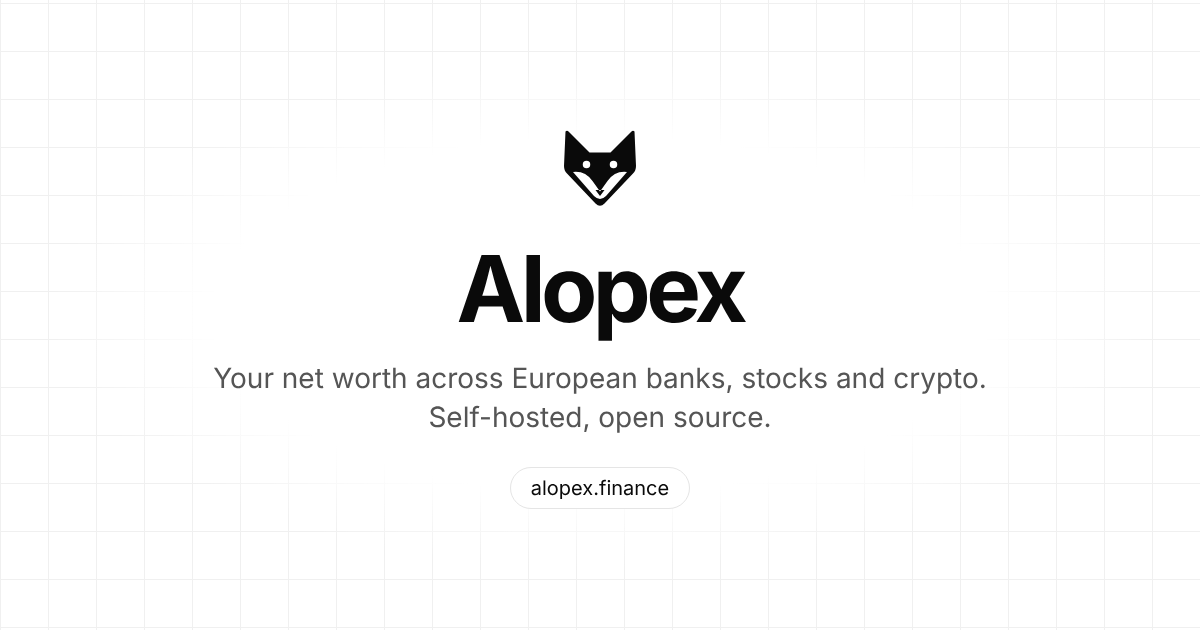
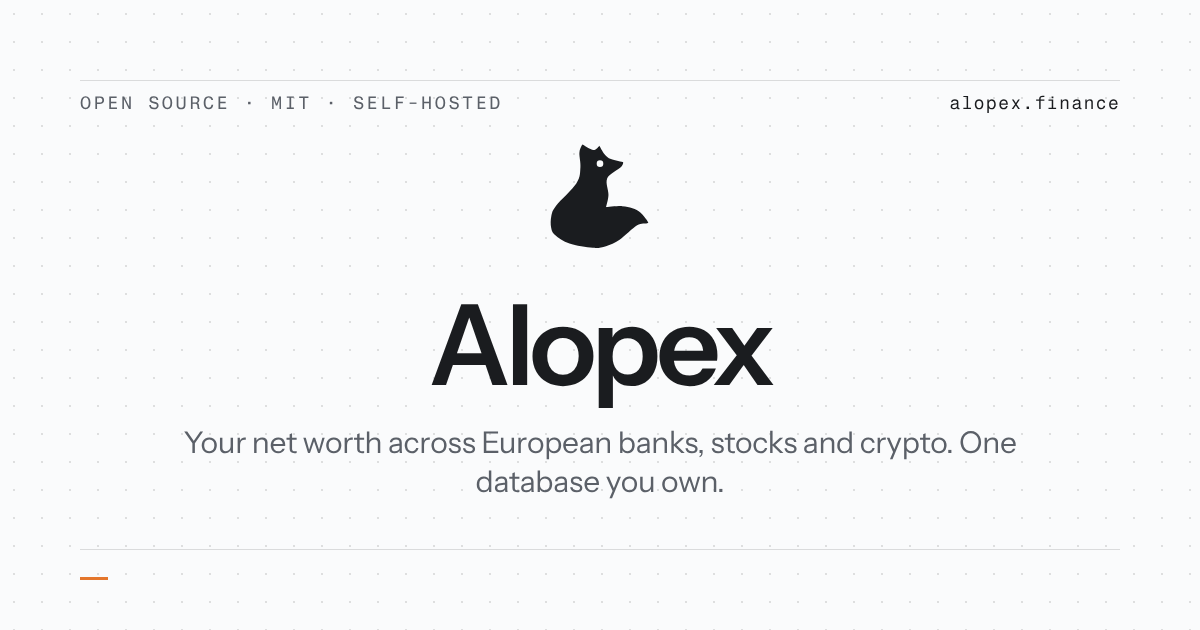
feat(site): sitting fox mark
Landing nav, footer and closing band use the sitting-fox silhouette; favicon,
apple-touch icon and OG image regenerated to match.

Claude-Session: https://claude.ai/code/session_015ob4vseKrSYbt3XPdrmNM3

diff --git a/site/index.html b/site/index.html
@@ -194,7 +194,7 @@ code{font:.9em ui-monospace,SFMono-Regular,Menlo,monospace;background:var(--soft
 </head>
 <body>
 <header><div class="wrap">
-  <a class="brand" href="/" aria-label="Alopex home"><svg viewBox="0 0 64 64" aria-hidden="true"><path fill="currentColor" d="M9 7Q10 6 11 7L25 21H39L53 7Q54 6 55 7L56 30Q56 33 54 35L35 55Q32 58 29 55L10 35Q8 33 8 30Z"/><path fill="var(--bg)" d="M14 34Q22 33 27 40L32 47L37 40Q42 33 50 34L36 50Q32 54 28 50Z"/><circle cx="23" cy="29" r="2.5" fill="var(--bg)"/><circle cx="41" cy="29" r="2.5" fill="var(--bg)"/><path fill="currentColor" d="M29 46H35L32 50Z"/></svg> Alopex</a>
+  <a class="brand" href="/" aria-label="Alopex home"><svg viewBox="0 0 64 64" aria-hidden="true"><path fill="currentColor" fill-rule="evenodd" d="M23.0 8.3 C22.7 9.0 22.1 9.9 22.0 11.6 C21.9 13.3 22.7 16.2 22.5 18.6 C22.3 21.1 22.6 23.2 20.6 26.3 C18.6 29.4 12.7 34.6 10.7 37.2 C8.7 39.9 8.8 40.4 8.4 42.2 C8.0 44.0 8.0 46.3 8.3 47.8 C8.6 49.3 8.7 50.1 10.2 51.4 C11.7 52.7 14.1 54.5 17.2 55.5 C20.2 56.5 25.6 57.4 28.5 57.6 C31.4 57.8 32.7 57.4 34.9 56.8 C37.1 56.1 39.0 55.4 41.5 53.7 C44.0 52.0 47.8 48.0 50.0 46.7 C52.2 45.4 53.9 46.0 54.8 45.7 C55.6 45.4 55.6 45.6 55.1 44.8 C54.6 43.9 52.9 41.7 51.7 40.6 C50.5 39.5 49.2 38.9 47.7 38.4 C46.2 37.9 44.8 37.5 42.7 37.4 C40.6 37.3 34.9 37.9 34.9 37.9 C34.9 37.9 36.0 34.3 36.1 32.0 C36.2 29.7 34.5 26.2 35.5 23.9 C36.5 21.6 40.9 19.7 42.2 18.4 C43.5 17.1 43.2 16.1 43.2 16.1 C43.2 16.1 38.8 15.2 37.3 14.6 C35.8 13.9 35.1 13.3 34.2 12.2 C33.3 11.1 31.7 8.1 31.7 8.1 C31.7 8.1 30.1 10.3 28.8 10.2 C27.5 10.1 23.6 7.5 23.6 7.5 C23.6 7.5 23.3 7.6 23.0 8.3ZM30.4 16.8a1.6 1.6 0 1 0 3.2 0a1.6 1.6 0 1 0-3.2 0Z"/><path fill="var(--bg)" d="M14 34Q22 33 27 40L32 47L37 40Q42 33 50 34L36 50Q32 54 28 50Z"/><circle cx="23" cy="29" r="2.5" fill="var(--bg)"/><circle cx="41" cy="29" r="2.5" fill="var(--bg)"/><path fill="currentColor" d="M29 46H35L32 50Z"/></svg> Alopex</a>
   <nav>
     <a href="#features">Features</a><a href="#how">How it works</a><a href="#privacy">Privacy</a><a href="#faq">FAQ</a>
     <a class="stars" href="https://github.com/marcodonghiaa/myfinances"><span>GitHub</span><img src="https://img.shields.io/github/stars/marcodonghiaa/myfinances?style=flat&amp;label=&amp;color=0a0a0a" width="48" height="20" loading="lazy" alt="GitHub stars"></a>
@@ -316,7 +316,7 @@ code{font:.9em ui-monospace,SFMono-Regular,Menlo,monospace;background:var(--soft
 
 <section class="final">
   <div class="band">
-    <svg viewBox="0 0 64 64" aria-hidden="true"><path fill="currentColor" d="M9 7Q10 6 11 7L25 21H39L53 7Q54 6 55 7L56 30Q56 33 54 35L35 55Q32 58 29 55L10 35Q8 33 8 30Z"/><path fill="var(--bg)" d="M14 34Q22 33 27 40L32 47L37 40Q42 33 50 34L36 50Q32 54 28 50Z"/><circle cx="23" cy="29" r="2.5" fill="var(--bg)"/><circle cx="41" cy="29" r="2.5" fill="var(--bg)"/><path fill="currentColor" d="M29 46H35L32 50Z"/></svg>
+    <svg viewBox="0 0 64 64" aria-hidden="true"><path fill="currentColor" fill-rule="evenodd" d="M23.0 8.3 C22.7 9.0 22.1 9.9 22.0 11.6 C21.9 13.3 22.7 16.2 22.5 18.6 C22.3 21.1 22.6 23.2 20.6 26.3 C18.6 29.4 12.7 34.6 10.7 37.2 C8.7 39.9 8.8 40.4 8.4 42.2 C8.0 44.0 8.0 46.3 8.3 47.8 C8.6 49.3 8.7 50.1 10.2 51.4 C11.7 52.7 14.1 54.5 17.2 55.5 C20.2 56.5 25.6 57.4 28.5 57.6 C31.4 57.8 32.7 57.4 34.9 56.8 C37.1 56.1 39.0 55.4 41.5 53.7 C44.0 52.0 47.8 48.0 50.0 46.7 C52.2 45.4 53.9 46.0 54.8 45.7 C55.6 45.4 55.6 45.6 55.1 44.8 C54.6 43.9 52.9 41.7 51.7 40.6 C50.5 39.5 49.2 38.9 47.7 38.4 C46.2 37.9 44.8 37.5 42.7 37.4 C40.6 37.3 34.9 37.9 34.9 37.9 C34.9 37.9 36.0 34.3 36.1 32.0 C36.2 29.7 34.5 26.2 35.5 23.9 C36.5 21.6 40.9 19.7 42.2 18.4 C43.5 17.1 43.2 16.1 43.2 16.1 C43.2 16.1 38.8 15.2 37.3 14.6 C35.8 13.9 35.1 13.3 34.2 12.2 C33.3 11.1 31.7 8.1 31.7 8.1 C31.7 8.1 30.1 10.3 28.8 10.2 C27.5 10.1 23.6 7.5 23.6 7.5 C23.6 7.5 23.3 7.6 23.0 8.3ZM30.4 16.8a1.6 1.6 0 1 0 3.2 0a1.6 1.6 0 1 0-3.2 0Z"/><path fill="var(--bg)" d="M14 34Q22 33 27 40L32 47L37 40Q42 33 50 34L36 50Q32 54 28 50Z"/><circle cx="23" cy="29" r="2.5" fill="var(--bg)"/><circle cx="41" cy="29" r="2.5" fill="var(--bg)"/><path fill="currentColor" d="M29 46H35L32 50Z"/></svg>
     <h2>One number, in a database you own.</h2>
     <p class="lead">Try it on fake data first, then set up your own copy.</p>
     <div class="ctas">
@@ -331,7 +331,7 @@ code{font:.9em ui-monospace,SFMono-Regular,Menlo,monospace;background:var(--soft
 
 <footer><div class="wrap">
   <div class="cols">
-    <a class="brand" href="/" aria-label="Alopex home"><svg viewBox="0 0 64 64" aria-hidden="true"><path fill="currentColor" d="M9 7Q10 6 11 7L25 21H39L53 7Q54 6 55 7L56 30Q56 33 54 35L35 55Q32 58 29 55L10 35Q8 33 8 30Z"/><path fill="var(--bg)" d="M14 34Q22 33 27 40L32 47L37 40Q42 33 50 34L36 50Q32 54 28 50Z"/><circle cx="23" cy="29" r="2.5" fill="var(--bg)"/><circle cx="41" cy="29" r="2.5" fill="var(--bg)"/><path fill="currentColor" d="M29 46H35L32 50Z"/></svg> Alopex</a>
+    <a class="brand" href="/" aria-label="Alopex home"><svg viewBox="0 0 64 64" aria-hidden="true"><path fill="currentColor" fill-rule="evenodd" d="M23.0 8.3 C22.7 9.0 22.1 9.9 22.0 11.6 C21.9 13.3 22.7 16.2 22.5 18.6 C22.3 21.1 22.6 23.2 20.6 26.3 C18.6 29.4 12.7 34.6 10.7 37.2 C8.7 39.9 8.8 40.4 8.4 42.2 C8.0 44.0 8.0 46.3 8.3 47.8 C8.6 49.3 8.7 50.1 10.2 51.4 C11.7 52.7 14.1 54.5 17.2 55.5 C20.2 56.5 25.6 57.4 28.5 57.6 C31.4 57.8 32.7 57.4 34.9 56.8 C37.1 56.1 39.0 55.4 41.5 53.7 C44.0 52.0 47.8 48.0 50.0 46.7 C52.2 45.4 53.9 46.0 54.8 45.7 C55.6 45.4 55.6 45.6 55.1 44.8 C54.6 43.9 52.9 41.7 51.7 40.6 C50.5 39.5 49.2 38.9 47.7 38.4 C46.2 37.9 44.8 37.5 42.7 37.4 C40.6 37.3 34.9 37.9 34.9 37.9 C34.9 37.9 36.0 34.3 36.1 32.0 C36.2 29.7 34.5 26.2 35.5 23.9 C36.5 21.6 40.9 19.7 42.2 18.4 C43.5 17.1 43.2 16.1 43.2 16.1 C43.2 16.1 38.8 15.2 37.3 14.6 C35.8 13.9 35.1 13.3 34.2 12.2 C33.3 11.1 31.7 8.1 31.7 8.1 C31.7 8.1 30.1 10.3 28.8 10.2 C27.5 10.1 23.6 7.5 23.6 7.5 C23.6 7.5 23.3 7.6 23.0 8.3ZM30.4 16.8a1.6 1.6 0 1 0 3.2 0a1.6 1.6 0 1 0-3.2 0Z"/><path fill="var(--bg)" d="M14 34Q22 33 27 40L32 47L37 40Q42 33 50 34L36 50Q32 54 28 50Z"/><circle cx="23" cy="29" r="2.5" fill="var(--bg)"/><circle cx="41" cy="29" r="2.5" fill="var(--bg)"/><path fill="currentColor" d="M29 46H35L32 50Z"/></svg> Alopex</a>
     <nav><a href="https://github.com/marcodonghiaa/myfinances">Backend repo</a><a href="https://github.com/marcodonghiaa/my-wealth-view">Dashboard repo</a><a href="https://github.com/marcodonghiaa/myfinances/blob/main/LICENSE">MIT license</a><a href="/llms.txt">llms.txt</a></nav>
   </div>
   <p class="legal">Alopex is a tracking tool, not financial, investment or tax advice. Figures depend on data from your banks and third-party price feeds and may be delayed or wrong; check important numbers with the source.</p>
